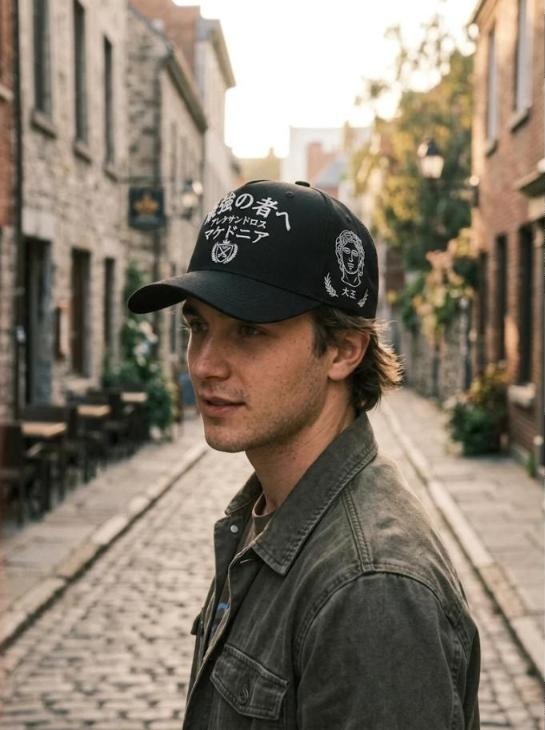
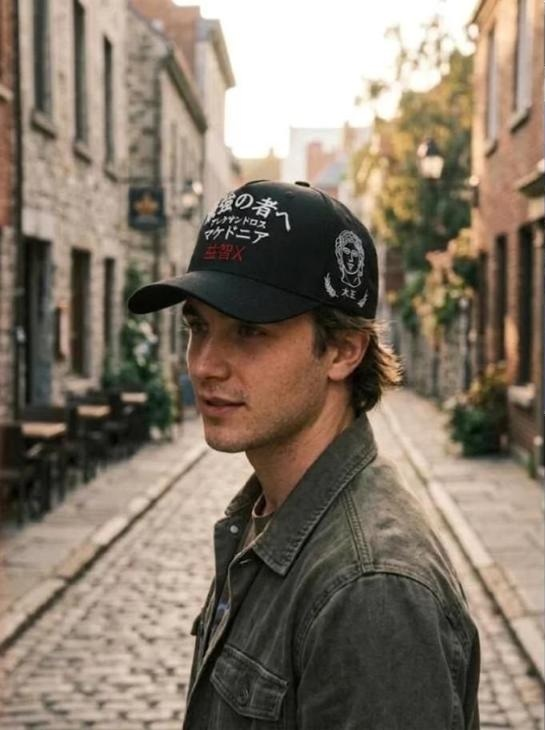
益智X al frente en lugar de la insignia (v8)
Claude-Session: https://claude.ai/code/session_018tfM2wmJfB5Sf4vx6Nwtsx

diff --git a/index.html b/index.html
@@ -8,7 +8,7 @@
 <link rel="preconnect" href="https://fonts.googleapis.com">
 <link rel="preconnect" href="https://fonts.gstatic.com" crossorigin>
 <link rel="stylesheet" href="https://fonts.googleapis.com/css2?family=Marcellus&family=IBM+Plex+Sans:wght@400;500;600&family=IBM+Plex+Mono:wght@400;500&display=swap">
-<link rel="stylesheet" href="https://fonts.googleapis.com/css2?family=Yuji+Boku&display=swap&text=%E3%81%84%E3%81%8C%E3%81%9B%E3%81%AA%E3%81%AB%E3%81%AE%E3%81%AF%E3%81%B0%E3%81%B8%E3%82%8B%E3%82%A2%E3%82%AA%E3%82%AF%E3%82%B1%E3%82%B5%E3%82%B9%E3%83%89%E3%83%8A%E3%83%8B%E3%83%9D%E3%83%9E%E3%83%AC%E3%83%AD%E3%83%B3%E4%B8%8D%E5%8F%AF%E5%A4%A7%E5%BC%B7%E6%88%90%E6%88%91%E6%9B%B8%E6%9C%80%E6%AD%A6%E7%82%BA%E7%8B%AC%E7%8E%8B%E8%80%85%E8%83%BD%E8%94%B5%E8%A1%8C%E8%BE%9E%E9%81%93%E3%83%BB%C2%B7">
+<link rel="stylesheet" href="https://fonts.googleapis.com/css2?family=Yuji+Boku&display=swap&text=%E3%81%84%E3%81%8C%E3%81%9B%E3%81%AA%E3%81%AB%E3%81%AE%E3%81%AF%E3%81%B0%E3%81%B8%E3%82%8B%E3%82%A2%E3%82%AA%E3%82%AF%E3%82%B1%E3%82%B5%E3%82%B9%E3%83%89%E3%83%8A%E3%83%8B%E3%83%9D%E3%83%9E%E3%83%AC%E3%83%AD%E3%83%B3%E4%B8%8D%E5%8F%AF%E5%A4%A7%E5%BC%B7%E6%88%90%E6%88%91%E6%9B%B8%E6%9C%80%E6%AD%A6%E7%82%BA%E7%8B%AC%E7%8E%8B%E8%80%85%E8%83%BD%E8%94%B5%E8%A1%8C%E8%BE%9E%E9%81%93%E3%83%BB%C2%B7%E7%9B%8A%E6%99%BAX">
 <style>
 /* Layout: ficha técnica de taller. Plano a escala (cuadrícula de 10 mm) a la izquierda, especificación a la derecha; todo en una columna en el celular */
 :root {
@@ -165,6 +165,7 @@ th { font-family: var(--f-mono); font-weight: 500; font-size: .74rem; letter-spa
 .palette h3 { font-size: 1.15rem; }
 .swatches { display: grid; grid-template-columns: repeat(5, minmax(0, 1fr)); gap: 1rem; }
 .swatches.four { grid-template-columns: repeat(4, minmax(0, 1fr)); }
+.swatches.six { grid-template-columns: repeat(6, minmax(0, 1fr)); }
 .sw { display: grid; gap: .45rem; min-width: 0; }
 .chip { aspect-ratio: 4 / 3; border: 1px solid var(--line); border-radius: 2px; }
 .sw b { font-weight: 600; font-size: .95rem; }
@@ -205,7 +206,7 @@ footer { font-family: var(--f-mono); font-size: .76rem; color: var(--muted); bor
   .fig:nth-child(3) { border-left: 0; padding-left: 0; }
   .fig:nth-child(n+3) { border-top: 1px solid var(--line); }
   .mocks { grid-template-columns: repeat(2, minmax(0, 1fr)); }
-  .swatches { grid-template-columns: repeat(3, minmax(0, 1fr)); }
+  .swatches, .swatches.six { grid-template-columns: repeat(3, minmax(0, 1fr)); }
   .swatches.four { grid-template-columns: repeat(2, minmax(0, 1fr)); }
 }
 @media (max-width: 760px) {
@@ -218,7 +219,7 @@ footer { font-family: var(--f-mono); font-size: .76rem; color: var(--muted); bor
   .fig, .fig:nth-child(3) { border-left: 0; padding-left: 0; padding-right: 0; }
   .fig + .fig { border-top: 1px solid var(--line); }
   .mocks { grid-template-columns: minmax(0, 1fr); }
-  .swatches, .swatches.four { grid-template-columns: repeat(2, minmax(0, 1fr)); }
+  .swatches, .swatches.four, .swatches.six { grid-template-columns: repeat(2, minmax(0, 1fr)); }
   .binding { grid-template-columns: minmax(0, 1fr); }
   .spec dl { grid-template-columns: minmax(0, 1fr); gap: .15rem; }
   .spec dd { margin-bottom: .45rem; }
@@ -226,7 +227,7 @@ footer { font-family: var(--f-mono); font-size: .76rem; color: var(--muted); bor
 </style>
 </head>
 <body>
-<!-- Símbolos compartidos: corona real, insignia y cuadrícula de 10 mm -->
+<!-- Símbolos compartidos: corona real y cuadrícula de 10 mm -->
 <svg width="0" height="0" style="position:absolute" aria-hidden="true" focusable="false">
   <defs>
     <pattern id="mm" width="10" height="10" patternUnits="userSpaceOnUse">
@@ -257,20 +258,6 @@ footer { font-family: var(--f-mono); font-size: .76rem; color: var(--muted); bor
         <ellipse cx="26" cy="15" rx="3.2" ry="2.6"/>
       </g>
     </symbol>
-    <symbol id="badge" viewBox="-50 -50 100 100">
-      <path d="M-34,-40 H34 V2 C34,24 17,38 0,46 C-17,38 -34,24 -34,2 Z" style="fill:var(--twill);stroke:var(--stone);stroke-width:4.5;stroke-linejoin:round"/>
-      <path d="M-29,-35 H29 V2 C29,21 14,33 0,40 C-14,33 -29,21 -29,2 Z" style="fill:none;stroke:var(--stone);stroke-width:.7;stroke-dasharray:1.6 1.2"/>
-      <g id="badgeLaurel"></g>
-      <g style="stroke:var(--stone);stroke-linecap:round;fill:none">
-        <path d="M-19,24 L19,-14" style="stroke-width:2.2"/>
-        <path d="M19,24 L-19,-14" style="stroke-width:2.2"/>
-      </g>
-      <g style="fill:var(--twill);stroke:var(--stone);stroke-width:1.1">
-        <circle cx="-12.5" cy="17.5" r="2.8"/><circle cx="12.5" cy="17.5" r="2.8"/>
-      </g>
-      <use href="#crown" x="-12" y="-39" width="24" height="24"/>
-      <text y="13" text-anchor="middle" font-size="17" class="t-kanji" style="fill:var(--stone);stroke:var(--twill);stroke-width:3;paint-order:stroke">最強</text>
-    </symbol>
   </defs>
 </svg>
 
@@ -278,24 +265,24 @@ footer { font-family: var(--f-mono); font-size: .76rem; color: var(--muted); bor
 
   <header class="hero">
     <div class="hero-text">
-      <span class="eyebrow">Gorra A-frame · Ficha técnica v7 · 19 oct 2026</span>
+      <span class="eyebrow">Gorra A-frame · Ficha técnica v8 · 19 oct 2026</span>
       <h1>Kratistos<span class="jp">最強の者へ</span></h1>
       <p class="lead">Una gorra de uso diario con tres figuras que no aceptaron lo imposible. Alejandro va al frente y en el costado izquierdo, Musashi en el derecho y la corona de Napoleón en la espalda. Toda la letra va en japonés. Viene en dos colores con el mismo diseño: rojo cardenal con hilo piedra, y total black con hilo blanco.</p>
       <ul class="facts">
         <li>Estructura A-frame de copa alta, frente rígido sin costura</li>
         <li>Dos colores: rojo cardenal y total black</li>
-        <li>Insignia bordada tipo parche al frente</li>
+        <li><span class="jp" lang="ja">益智X</span> al frente, en el color de la otra gorra</li>
         <li>Toda la letra en japonés: kanji y katakana con trazo de pincel</li>
         <li>Talla ajustable de 56 a 60 cm</li>
       </ul>
     </div>
     <div class="duo">
       <figure>
-        <img src="img/r-frente.jpg" alt="Gorra roja: 最強の者へ en arco, アレクサンドロス, マケドニア y la insignia al frente; busto griego en el costado" width="673" height="674">
+        <img src="img/r-frente.jpg" alt="Gorra roja: 最強の者へ en arco, アレクサンドロス, マケドニア y 益智X en negro al frente; busto griego en el costado" width="730" height="730">
         <figcaption><span class="dot" style="background:var(--twill)"></span>Rojo cardenal</figcaption>
       </figure>
       <figure>
-        <img src="img/n-frente.jpg" alt="Gorra total black: la misma letra japonesa, la insignia y el busto bordados en blanco" width="730" height="730">
+        <img src="img/n-frente.jpg" alt="Gorra total black: la misma letra japonesa y el busto en blanco, con 益智X en rojo" width="730" height="730">
         <figcaption><span class="dot" style="background:var(--black)"></span>Total black</figcaption>
       </figure>
     </div>
@@ -314,7 +301,7 @@ footer { font-family: var(--f-mono); font-size: .76rem; color: var(--muted); bor
         <p class="phrase" lang="ja">最強の者へ</p>
         <p class="reading">saikyō no mono e</p>
         <p class="tr">«Al más fuerte»</p>
-        <p class="note">Según Arriano, fue su respuesta en el lecho de muerte cuando le preguntaron a quién dejaba el imperio. Debajo dice アレクサンドロス (Alexandros) y マケドニア (Macedonia). Debajo va la insignia con 最強, «el más fuerte».</p>
+        <p class="note">Según Arriano, fue su respuesta en el lecho de muerte cuando le preguntaron a quién dejaba el imperio. Debajo dice アレクサンドロス (Alexandros) y マケドニア (Macedonia). Al pie va 益智X, chiquito, en el color de la otra gorra.</p>
       </article>
       <article class="fig">
         <span class="tag">Costado izquierdo</span>
@@ -358,7 +345,7 @@ footer { font-family: var(--f-mono); font-size: .76rem; color: var(--muted); bor
       <button type="button" role="tab" id="tab-black" aria-selected="false" aria-controls="panel-black" data-cw="black"><span class="dot" style="background:var(--black)"></span>Total black</button>
     </div>
     <div class="mocks" id="panel-roja" role="tabpanel" aria-labelledby="tab-roja">
-      <figure class="mock"><img src="img/r-frente.jpg" alt="Roja, tres cuartos de frente: letra japonesa, insignia y busto" width="673" height="674" loading="lazy"><figcaption>Frente · Alejandro</figcaption></figure>
+      <figure class="mock"><img src="img/r-frente.jpg" alt="Roja, tres cuartos de frente: letra japonesa, 益智X en negro y busto" width="730" height="730" loading="lazy"><figcaption>Frente · Alejandro</figcaption></figure>
       <figure class="mock"><img src="img/r-busto.jpg" alt="Roja, costado izquierdo: busto griego con laureles y sello 大王" width="673" height="674" loading="lazy"><figcaption>Costado izquierdo · el busto</figcaption></figure>
       <figure class="mock"><img src="img/r-musashi.jpg" alt="Roja, costado derecho: ensō, katanas, 独行道 y sello 武蔵" width="673" height="674" loading="lazy"><figcaption>Costado derecho · Musashi</figcaption></figure>
       <figure class="mock"><img src="img/r-espalda.jpg" alt="Roja, espalda: corona real con perlas entre laureles y 我が辞書に不可能はない" width="657" height="596" loading="lazy"><figcaption>Espalda · la corona</figcaption></figure>
@@ -366,7 +353,7 @@ footer { font-family: var(--f-mono); font-size: .76rem; color: var(--muted); bor
       <figure class="mock"><img src="img/r-lifestyle.jpg" alt="Un joven con la gorra roja en una calle de piedra" width="545" height="730" loading="lazy" style="object-position:50% 25%"><figcaption>Puesta · uso diario</figcaption></figure>
     </div>
     <div class="mocks" id="panel-black" role="tabpanel" aria-labelledby="tab-black" hidden>
-      <figure class="mock"><img src="img/n-frente.jpg" alt="Total black, tres cuartos de frente: letra japonesa, insignia y busto en blanco" width="730" height="730" loading="lazy"><figcaption>Frente · Alejandro</figcaption></figure>
+      <figure class="mock"><img src="img/n-frente.jpg" alt="Total black, tres cuartos de frente: letra japonesa y busto en blanco, 益智X en rojo" width="730" height="730" loading="lazy"><figcaption>Frente · Alejandro</figcaption></figure>
       <figure class="mock"><img src="img/n-busto.jpg" alt="Total black, costado izquierdo: busto griego en blanco con sello 大王" width="673" height="674" loading="lazy"><figcaption>Costado izquierdo · el busto</figcaption></figure>
       <figure class="mock"><img src="img/n-musashi.jpg" alt="Total black, costado derecho: ensō gris carbón, katanas y 独行道 en blanco" width="673" height="674" loading="lazy"><figcaption>Costado derecho · Musashi</figcaption></figure>
       <figure class="mock"><img src="img/n-espalda.jpg" alt="Total black, espalda: corona blanca con perlas entre laureles y 我が辞書に不可能はない" width="673" height="674" loading="lazy"><figcaption>Espalda · la corona</figcaption></figure>
@@ -385,7 +372,7 @@ footer { font-family: var(--f-mono); font-size: .76rem; color: var(--muted); bor
     <div class="zones">
       <article class="zone">
         <figure class="plate">
-          <svg class="art" id="svgFront" viewBox="0 0 260 165" role="img" aria-label="Panel frontal con 最強の者へ en arco, アレクサンドロス, マケドニア y la insignia, con cotas de 105 por 73 milímetros">
+          <svg class="art" id="svgFront" viewBox="0 0 260 165" role="img" aria-label="Panel frontal con 最強の者へ en arco, アレクサンドロス, マケドニア y 益智X en negro, con cotas de 105 por 64 milímetros">
             <rect class="gridrect" width="260" height="165"/>
             <path class="tw" d="M20,145 C24,70 70,15 130,15 C190,15 236,70 240,145 Q130,151 20,145 Z"/>
             <path class="seam" d="M20,145 Q130,151 240,145"/>
@@ -393,17 +380,17 @@ footer { font-family: var(--f-mono); font-size: .76rem; color: var(--muted); bor
             <text class="t-kanji st" font-size="18" letter-spacing="1.2"><textPath href="#arcF" startOffset="50%" text-anchor="middle">最強の者へ</textPath></text>
             <text class="t-kanji st" x="130" y="98" font-size="8" letter-spacing=".6" text-anchor="middle">アレクサンドロス</text>
             <text class="t-kanji st" x="130" y="112" font-size="12" letter-spacing="1" text-anchor="middle">マケドニア</text>
-            <use href="#badge" x="116.2" y="112" width="27.6" height="27.6"/>
+            <text class="t-kanji" x="130" y="128" font-size="8" letter-spacing=".8" text-anchor="middle" style="fill:var(--black)">益智X</text>
             <g id="dimFront"></g>
           </svg>
         </figure>
         <div class="spec">
           <header><span class="tag">Zona 1 · Frente</span><h3>Alejandro Magno</h3></header>
           <dl>
-            <dt>Medida</dt><dd>105 × 73 mm con la insignia, centrado en el panel</dd>
-            <dt>Ubicación</dt><dd>La punta de la insignia va a 7 mm de la costura de la visera</dd>
-            <dt>Técnica</dt><dd>Kanji y kana en satén con trazo de pincel; en los trazos gruesos, relleno tatami. La insignia es un parche aparte (ver zona 2).</dd>
-            <dt>Hilo</dt><dd>Piedra en la roja · blanco en la total black</dd>
+            <dt>Medida</dt><dd>105 × 64 mm con 益智X, centrado en el panel</dd>
+            <dt>Ubicación</dt><dd>益智X va a 15 mm de la costura de la visera (ver zona 2)</dd>
+            <dt>Técnica</dt><dd>Kanji y kana en satén con trazo de pincel; en los trazos gruesos, relleno tatami</dd>
+            <dt>Hilo</dt><dd>Piedra en la roja · blanco en la total black. 益智X va en el color de la otra gorra.</dd>
             <dt>Ojo</dt><dd>Revisar cada carácter en la prueba: <span class="jp" lang="ja">最 強 の 者 へ · ア レ ク サ ン ド ロ ス · マ ケ ド ニ ア</span>. La línea en katakana mide 5 mm de alto: usar hilo fino (60 wt).</dd>
           </dl>
         </div>
@@ -411,24 +398,23 @@ footer { font-family: var(--f-mono); font-size: .76rem; color: var(--muted); bor
 
       <article class="zone">
         <figure class="plate">
-          <svg class="art" id="svgBadge" viewBox="0 0 150 80" role="img" aria-label="Insignia en escudo con corona, katanas cruzadas, laureles y 最強, en rojo cardenal y en total black, detalle a escala 2:1">
-            <rect class="gridrect" width="150" height="80"/>
-            <rect x="5" y="3" width="66" height="64" rx="2" class="tw"/>
-            <use href="#badge" x="10.4" y="6" width="55.2" height="55.2"/>
-            <g class="cw-black">
-              <rect x="79" y="3" width="66" height="64" rx="2" class="tw"/>
-              <use href="#badge" x="84.4" y="6" width="55.2" height="55.2"/>
-            </g>
-            <g id="dimBadge"></g>
+          <svg class="art" id="svgMark" viewBox="0 0 150 60" role="img" aria-label="益智X bordado en negro sobre rojo y en rojo sobre negro, detalle a escala 2:1">
+            <rect class="gridrect" width="150" height="60"/>
+            <rect x="5" y="3" width="66" height="46" rx="2" class="tw"/>
+            <text class="t-kanji" x="38" y="32" font-size="16" letter-spacing="1.6" text-anchor="middle" style="fill:var(--black)">益智X</text>
+            <rect x="79" y="3" width="66" height="46" rx="2" style="fill:var(--black)"/>
+            <text class="t-kanji" x="112" y="32" font-size="16" letter-spacing="1.6" text-anchor="middle" style="fill:var(--twill)">益智X</text>
+            <g id="dimMark"></g>
           </svg>
         </figure>
         <div class="spec">
-          <header><span class="tag">Zona 2 · Insignia</span><h3>El escudo de 最強</h3></header>
+          <header><span class="tag">Zona 2 · Frente, al pie</span><h3><span class="jp" lang="ja">益智X</span></h3></header>
           <dl>
-            <dt>Medida</dt><dd>20 × 24 mm (el plano está a escala 2:1)</dd>
-            <dt>Formato</dt><dd>Parche bordado sobre sarga del mismo color de la gorra, con borde overlock (merrow) de 2 mm. Se cose sobre el panel frontal con puntada invisible.</dd>
-            <dt>Dentro</dt><dd>Una corona arriba, dos katanas cruzadas, una corona de laurel y <span class="jp" lang="ja">最強</span> en el centro, en satén</dd>
-            <dt>Colores</dt><dd>Roja: borde y bordado en piedra, detalles en vino. Total black: borde y bordado en blanco, detalles en gris carbón.</dd>
+            <dt>Medida</dt><dd>8 mm de alto y unos 24 mm de ancho (el plano está a escala 2:1)</dd>
+            <dt>Ubicación</dt><dd>Centrado bajo マケドニア, a 15 mm de la costura de la visera. Reemplaza a la insignia de la v7.</dd>
+            <dt>Técnica</dt><dd>Bordado plano en satén, sin relleno de relieve. Es chico a propósito: es un detalle, no compite con la letra grande.</dd>
+            <dt>Color</dt><dd>Lleva el color de la otra gorra: negro (#111111) en la roja y rojo cardenal (#9B1B26) en la total black</dd>
+            <dt>Ojo</dt><dd>Tres caracteres: <span class="jp" lang="ja">益 智</span> y la X latina mayúscula</dd>
           </dl>
         </div>
       </article>
@@ -590,13 +576,13 @@ footer { font-family: var(--f-mono); font-size: .76rem; color: var(--muted); bor
           <tr><th scope="row">Colores</th><td>Rojo cardenal, con hilo piedra y detalles en vino. Total black, con hilo blanco y detalles en gris carbón. El diseño es el mismo en los dos.</td></tr>
           <tr><th scope="row">Tela</th><td>Sarga de algodón 100 %</td></tr>
           <tr><th scope="row">Visera</th><td>Precurvada, con 8 pespuntes tono sobre tono y la greca. Bajo visera: gris en la roja, negro en la total black.</td></tr>
-          <tr><th scope="row">Insignia</th><td>Parche bordado de 20 × 24 mm con borde overlock, cosido al frente (zona 2)</td></tr>
+          <tr><th scope="row">益智X</th><td>Bordado plano de 8 mm al pie del frente (zona 2): negro en la roja, rojo cardenal en la total black</td></tr>
           <tr><th scope="row">Ojales</th><td>4, bordados tono sobre tono (2 laterales y 2 traseros)</td></tr>
           <tr><th scope="row">Botón</th><td>Forrado en la misma tela</td></tr>
           <tr><th scope="row">Banda interior</th><td>Algodón, para el sudor</td></tr>
           <tr><th scope="row">Cierre</th><td>Correa de la misma tela. Hebilla deslizante grabada con una corona: latón envejecido en la roja, negro mate en la total black.</td></tr>
           <tr><th scope="row">Talla</th><td>Ajustable, de 56 a 60 cm de contorno</td></tr>
-          <tr><th scope="row">Orden de armado</th><td>Bordar y estampar los paneles y el bajo visera planos, y bordar la insignia aparte. Después coser la insignia al frente, armar la corona, coser la visera y poner la cinta y la banda.</td></tr>
+          <tr><th scope="row">Orden de armado</th><td>Bordar y estampar los paneles y el bajo visera planos. Después armar la corona, coser la visera y poner la cinta y la banda.</td></tr>
         </tbody>
       </table>
     </div>
@@ -611,21 +597,23 @@ footer { font-family: var(--f-mono); font-size: .76rem; color: var(--muted); bor
     <div class="palettes">
       <div class="palette">
         <h3>Rojo cardenal</h3>
-        <div class="swatches">
+        <div class="swatches six">
           <div class="sw"><div class="chip" style="background:var(--twill)"></div><b>Rojo cardenal</b><code>#9B1B26</code><span>Tela</span></div>
           <div class="sw"><div class="chip" style="background:var(--stone)"></div><b>Piedra</b><code>#D6CBB0</code><span>Hilo principal y tintas</span></div>
           <div class="sw"><div class="chip" style="background:var(--wine)"></div><b>Vino</b><code>#6E0F18</code><span>Sombras, sellos y greca</span></div>
           <div class="sw"><div class="chip" style="background:var(--brim-grey)"></div><b>Gris</b><code>#8A8A85</code><span>Bajo visera</span></div>
           <div class="sw"><div class="chip" style="background:var(--brass)"></div><b>Latón envejecido</b><code>#9A7B4F</code><span>Hebilla</span></div>
+          <div class="sw"><div class="chip" style="background:var(--black)"></div><b>Negro</b><code>#111111</code><span>益智X</span></div>
         </div>
       </div>
       <div class="palette">
         <h3>Total black</h3>
-        <div class="swatches four">
+        <div class="swatches">
           <div class="sw"><div class="chip" style="background:var(--black)"></div><b>Negro</b><code>#111111</code><span>Tela, visera, bajo visera y correa</span></div>
           <div class="sw"><div class="chip" style="background:var(--white-thread)"></div><b>Blanco</b><code>#F5F5F2</code><span>Hilo principal y tintas</span></div>
           <div class="sw"><div class="chip" style="background:var(--charcoal)"></div><b>Gris carbón</b><code>#3A3A3A</code><span>Sombras, sellos y greca</span></div>
           <div class="sw"><div class="chip" style="background:var(--matte-black)"></div><b>Negro mate</b><code>#2B2B2B</code><span>Hebilla</span></div>
+          <div class="sw"><div class="chip" style="background:var(--twill)"></div><b>Rojo cardenal</b><code>#9B1B26</code><span>益智X</span></div>
         </div>
       </div>
     </div>
@@ -644,7 +632,7 @@ footer { font-family: var(--f-mono); font-size: .76rem; color: var(--muted); bor
       </div>
       <pre id="promptRed">A structured A-frame high-crown 5-panel cap in deep cardinal red (#9B1B26) cotton twill: tall, firm, seamless front panel (stiff buckram) rising steeply from a pre-curved brim with 8 rows of tonal stitching, embroidered eyelets, covered top button, grey underside of the brim.
 Palette: matte stone thread (#D6CBB0) as the main color, dark wine thread (#6E0F18) for shading and subtle patterns; no metallic, no other colors. All lettering in Japanese, bold brush-calligraphy embroidery.
-FRONT: big arched line 最強の者へ in stone; under it a smaller katakana line アレクサンドロス; under it a straight line マケドニア; under that, centered, a small embroidered crest badge like a sewn-on patch (shield with a stone merrowed border, red inside, a small crown on top, two crossed katanas, a laurel wreath and the kanji 最強 in the center).
+FRONT: big arched line 最強の者へ in stone; under it a smaller katakana line アレクサンドロス; under it a straight line マケドニア; under that, small and centered, the text 益智X embroidered in black thread (#111111), flat satin, about 8 mm tall.
 LEFT SIDE PANEL: a large, detailed classical Greek marble bust of Alexander the Great in three-quarter view, idealized young face, thick wavy hair rising from the forehead (anastole), engraving-style embroidery with stone outlines and wine shading; below it two small laurel sprigs and a small square wine seal with 大王.
 RIGHT SIDE PANEL: a large brush-stroke enso circle in wine thread, two crossed katanas in detailed stone line-art with round tsuba guards and wrapped handles, the kanji 独行道 written vertically in stone brush calligraphy, and a small square seal with 武蔵.
 BACK: a large, well structured royal crown about 6 cm wide in stone with wine shading (jeweled headband with a row of pearls, five points topped with pearls, crossing arches with pearl beading, wine velvet cap inside, small orb on top), flanked by two laurel branches; above it the arched line 我が辞書に不可能はない. Red twill strap with an antique-brass slide buckle engraved with a small crown.
@@ -655,7 +643,7 @@ Hyper-realistic e-commerce catalog photo, 1:1, white seamless background, soft d
         <span class="eyebrow">Inglés · total black (con la foto roja adjunta)</span>
         <button type="button" class="copy" data-copy="promptBlack">Copiar prompt</button>
       </div>
-      <pre id="promptBlack">Recolor the attached photo, nothing else. Pure color change of the same photo: same cap, same angle, same composition and EXACTLY the same Japanese characters in the same places. Do not translate, do not rewrite, no Latin letters. New colors: the whole cap jet black (#111111), including brim, underside of the brim, button and strap; every letter, line art and print in bright white (#F5F5F2); shading, seals, the enso and the Greek key border in charcoal grey (#3A3A3A); the buckle in matte black metal. White seamless background, 1:1.</pre>
+      <pre id="promptBlack">Recolor the attached photo, nothing else. Pure color change of the same photo: same cap, same angle, same composition and EXACTLY the same Japanese characters in the same places. Do not translate, do not rewrite, no Latin letters. New colors: the whole cap jet black (#111111), including brim, underside of the brim, button and strap; every letter, line art and print in bright white (#F5F5F2); shading, seals, the enso and the Greek key border in charcoal grey (#3A3A3A); the buckle in matte black metal. The small text 益智X under マケドニア goes in deep cardinal red (#9B1B26). White seamless background, 1:1.</pre>
     </div>
   </section>
 
@@ -680,7 +668,7 @@ Hyper-realistic e-commerce catalog photo, 1:1, white seamless background, soft d
   </section>
 
   <footer>
-    <span>Kratistos · ficha técnica v7 · 19 de octubre de 2026</span>
+    <span>Kratistos · ficha técnica v8 · 19 de octubre de 2026</span>
     <span>Mockups generados con Google Flow (Nano Banana 2.1). Arte vectorial de referencia para el digitalizador.</span>
   </footer>
 </div>
@@ -754,35 +742,18 @@ Hyper-realistic e-commerce catalog photo, 1:1, white seamless background, soft d
     mk("path", { d: leaf, class: leafClass, transform: `translate(${end.x},${end.y}) rotate(${ang})` }, g);
   }
 
-  // Laurel de la insignia: hojas sobre un arco de circunferencia (el símbolo no se renderiza, así que va por cálculo)
-  (function badgeLaurel() {
-    const g = $("badgeLaurel");
-    const cx = 0, cy = 4, r = 24;
-    for (const side of [-1, 1]) {
-      for (let i = 0; i < 7; i++) {
-        const deg = side < 0 ? 108 + i * 15 : 72 - i * 15;
-        const x = cx + r * Math.cos(rad(deg)), y = cy + r * Math.sin(rad(deg));
-        const tangent = deg + (side < 0 ? 90 : -90);
-        for (const k of [-1, 1]) {
-          mk("ellipse", { cx: 0, cy: 0, rx: 3.3, ry: 1.3, transform: `translate(${x},${y}) rotate(${tangent + k * 35}) translate(2.6,0)`, style: "fill:var(--stone)" }, g);
-        }
-      }
-    }
-  })();
-
   // ---- Zona 1: frente
   const gF = $("dimFront");
   dim(gF, 77.5, 58, 182.5, 58, "105 mm", -1);
-  dim(gF, 196, 66, 196, 138.5, "73 mm", 1);
-  dim(gF, 150, 138.5, 150, 145.5, "7", 1);
+  dim(gF, 196, 66, 196, 130, "64 mm", 1);
+  dim(gF, 150, 130, 150, 145.5, "15", 1);
   note(gF, 24, 160, "costura de la visera ↑", "start");
 
-  // ---- Zona 2: insignia (detalle 2:1)
-  const gBd = $("dimBadge");
-  dim(gBd, 19.2, 64.5, 56.8, 64.5, "20 mm", -1);
-  dim(gBd, 69, 11.5, 69, 59, "24 mm", -1);
-  note(gBd, 38, 78.5, "rojo cardenal · escala 2:1", "middle");
-  note(gBd, 112, 78.5, "total black", "middle");
+  // ---- Zona 2: 益智X (detalle 2:1)
+  const gM = $("dimMark");
+  dim(gM, 14, 40, 62, 40, "24 mm", 1);
+  note(gM, 38, 56, "rojo cardenal · escala 2:1", "middle");
+  note(gM, 112, 56, "total black", "middle");
 
   // ---- Zona 3: busto (arte de referencia)
   const gB = $("dimBust");
